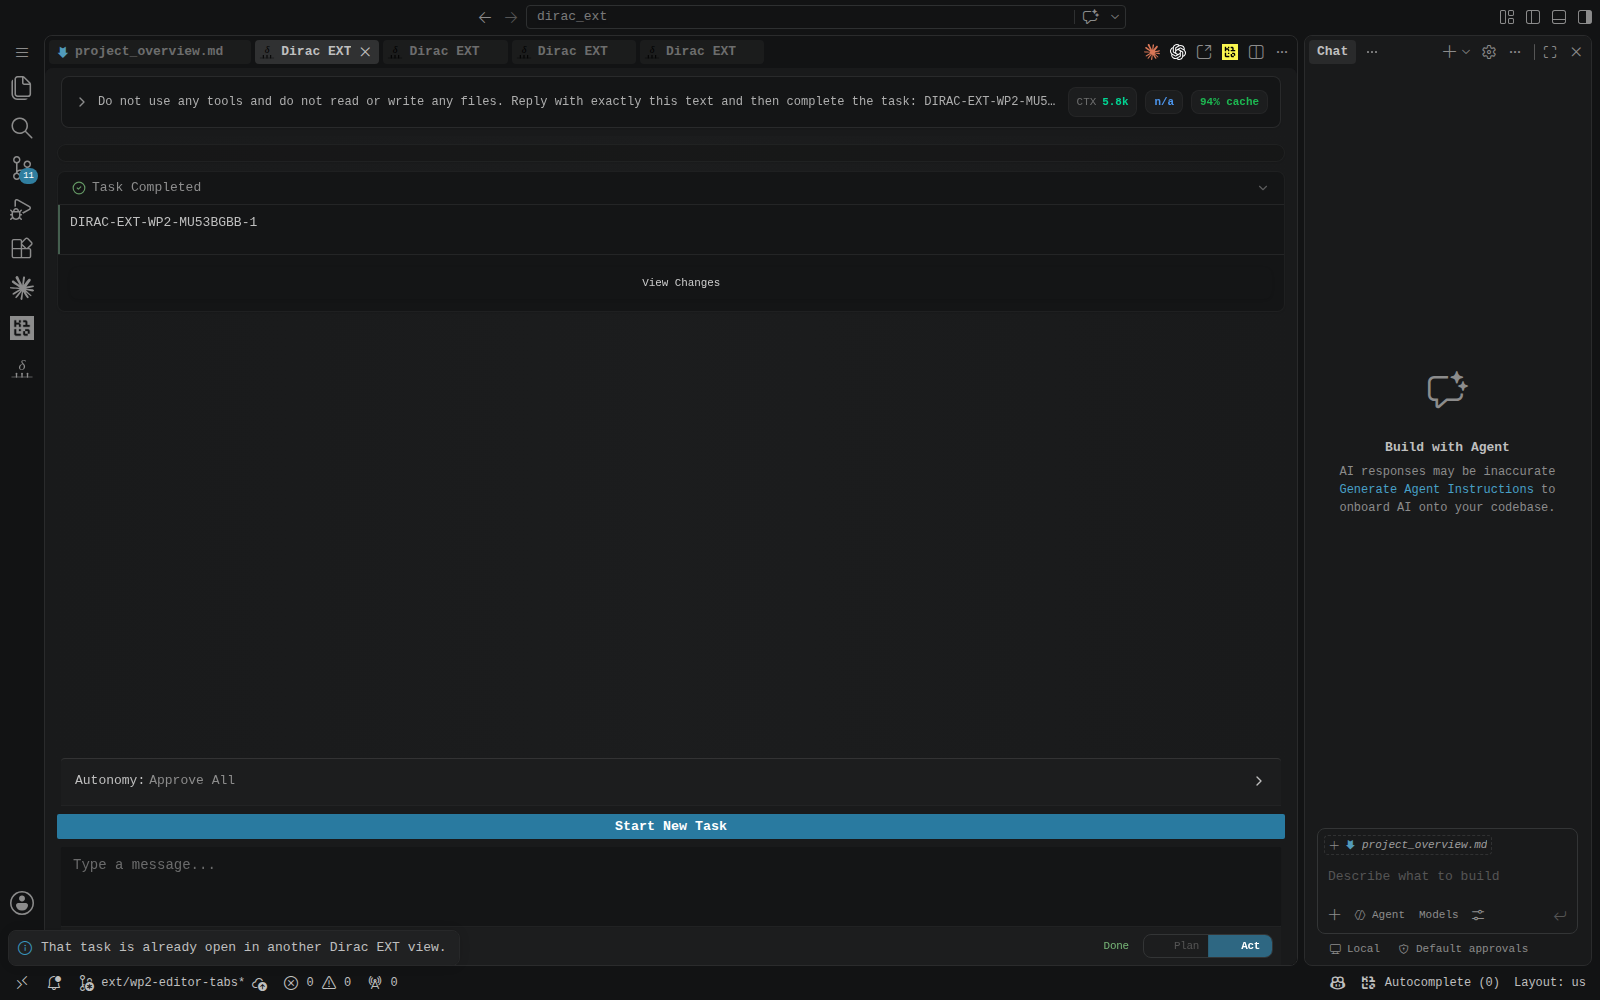
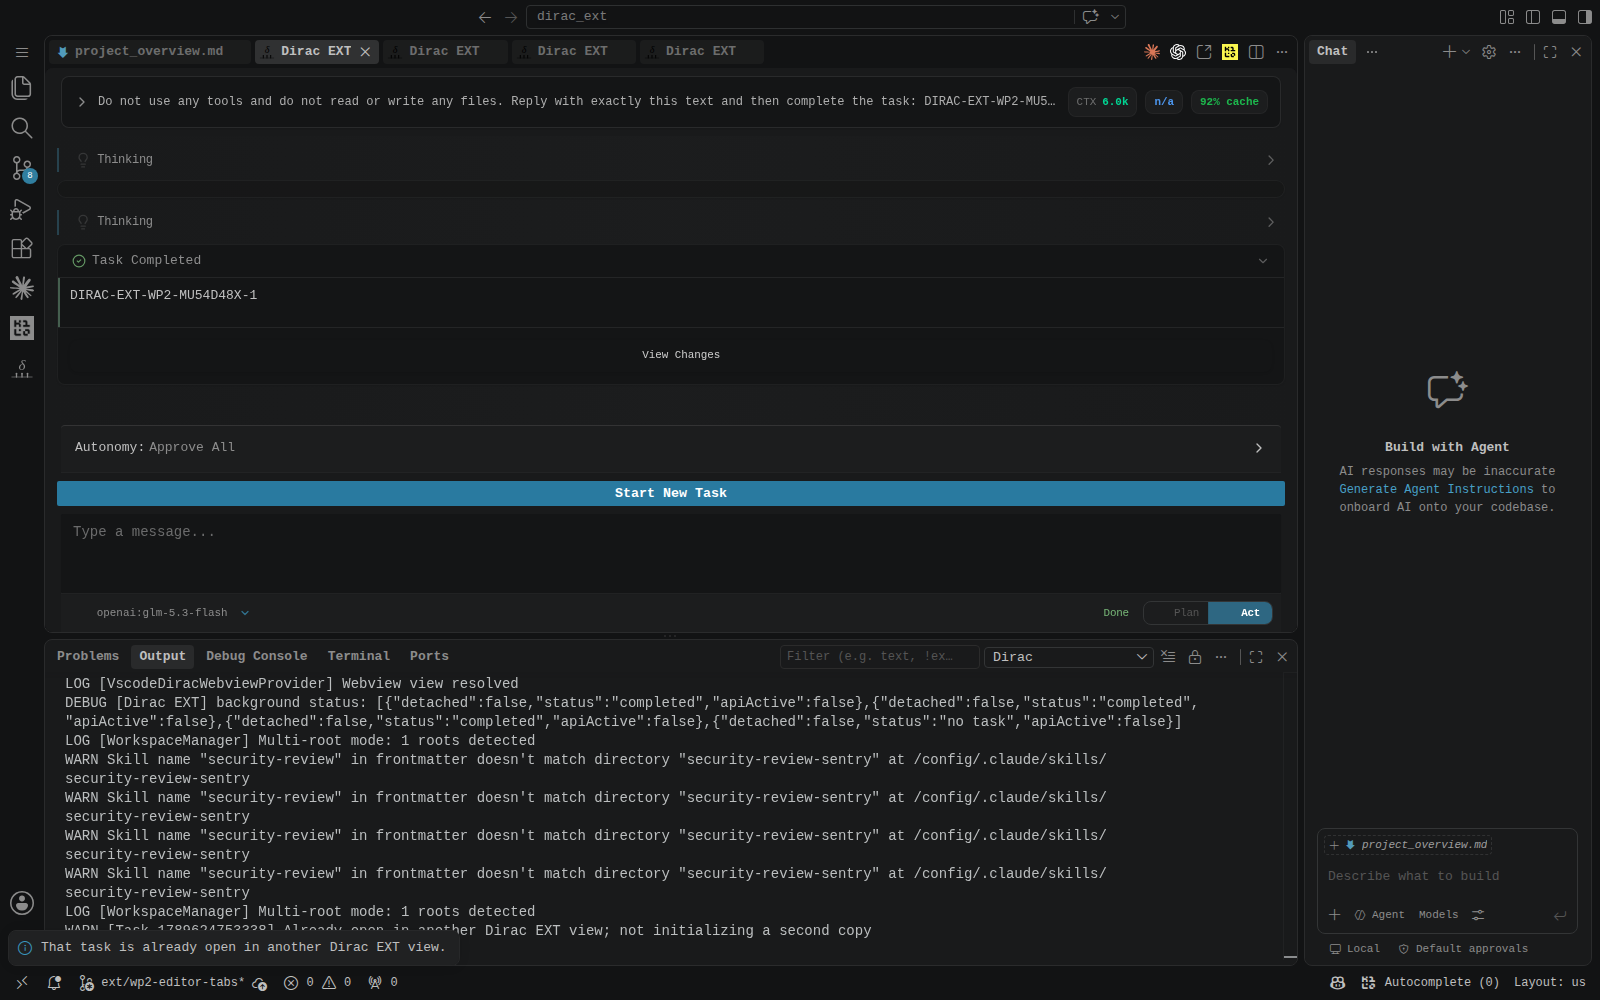
WP2: detach/re-attach verified end to end; acceptance is 38/38
Closing a tab mid-turn keeps the work alive and re-attaching resumes the
same conversation — proven in the real code-server UI, not inferred:

  Tab closed -> detach (status=streaming_text, apiActive=true)
  Tab detached, task kept running
  status bar: "Dirac EXT: 1 running in background"
  re-attach quick pick: "Select a background task to re-attach"
  same controller id returns, transcript still streaming (... 1022 1023 1024)
  status bar then stops counting it

Three failures along the way were the harness lying, not the product, and
each is now impossible to repeat silently:
- `.last()` closed the wrong Dirac EXT tab (five were open) and closing a
  finished conversation correctly disposes it, producing no background task.
  The acceptance now closes the ACTIVE tab and logs which one.
- a 300-number reply finishes in ~5s, so a correctly-reaped background task
  looked identical to one that never detached. The task now streams long
  enough to observe.
- the command palette leaves its list in the DOM, and the old assertion read
  that stale row as if it were the re-attach quick pick. It now checks the
  visible widget's placeholder.

Kept two diagnostics in the product: the close decision with the state it was
made from (log level), and the background-count inputs (debug level). Both
decisions are made from state the user cannot see; without them the three
failures above were indistinguishable from each other.
[…]

diff --git a/src/extension.ts b/src/extension.ts
@@ -627,6 +627,22 @@ ${ctx.cellJson || "{}"}
 			}
 		}
 
+		// Dirac EXT: the background count is decided from state the user cannot see; record what it was
+		// decided from, or a wrong count is undiagnosable after the fact. Debug level: this also runs on
+		// the 5s poll while a task is detached.
+		Logger.debug(
+			`[Dirac EXT] background status: ${JSON.stringify(
+				DiracWebviewProvider.getTabInstances().map((i) => {
+					const t = (i as VscodeDiracWebviewProvider).controller.task
+					return {
+						detached: (i as VscodeDiracWebviewProvider).isDetached?.() ?? false,
+						status: t?.taskState.status ?? "no task",
+						apiActive: t?.taskState.isApiRequestActive ?? false,
+					}
+				}),
+			)}`,
+		)
+
 		const runningCount = getRunningBackgroundInstances().length
 		if (runningCount === 0) {
 			backgroundTaskStatusBarItem.hide()

diff --git a/EXT_CHANGES.md b/EXT_CHANGES.md
@@ -187,6 +187,21 @@ than `getWebview()`, so tab instances receive events and a detached instance's s
   none of the other two.
 - **Opening a conversation another view owns** shows "already open in another Dirac EXT view", leaves
   exactly one view holding it, and reveals the owner rather than duplicating it.
+- **Move Conversation to a Tab** moves it: exactly one view shows it afterwards, and it is the tab.
+- **Closing a tab mid-turn does not kill the work.** The close handler logs its decision
+  (`Tab closed -> detach (status=streaming_text, apiActive=true)`), the status bar shows
+  "Dirac EXT: 1 running in background", and re-attaching brings back the **same controller id** with the
+  conversation still streaming (`… 1022 1023 1024 …`) — after which the status bar stops counting it.
+- 38 assertions, 0 failures (`verification/wp2/acceptance-log.txt`).
+
+**Known rough edge for WP3:** the re-attach quick pick labels the task with its raw id
+(`1789624810548`), because tab titles and conversation names are WP3's work.
+
+### Two diagnostics kept in the code
+`Tab closed -> <action> (status=…, apiActive=…)` at log level, and the background-count inputs at debug
+level. Both exist because the detach/dispose decision and the background count are made from state the
+user cannot see, and a wrong outcome is otherwise undiagnosable after the fact — which is exactly what
+happened three times while verifying this WP.
 
 ### ⚠ A harness trap that produced two false results
 Playwright's actionability checks do not cross an iframe boundary. VS Code stacks all editor webviews at
